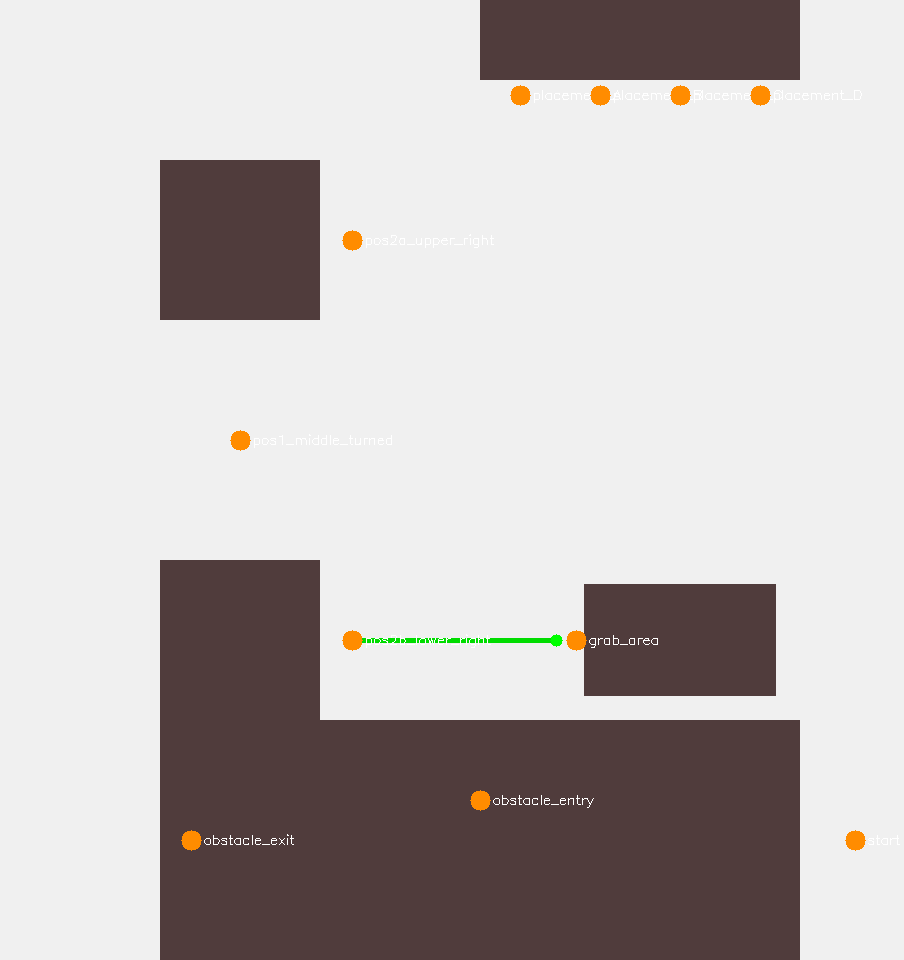
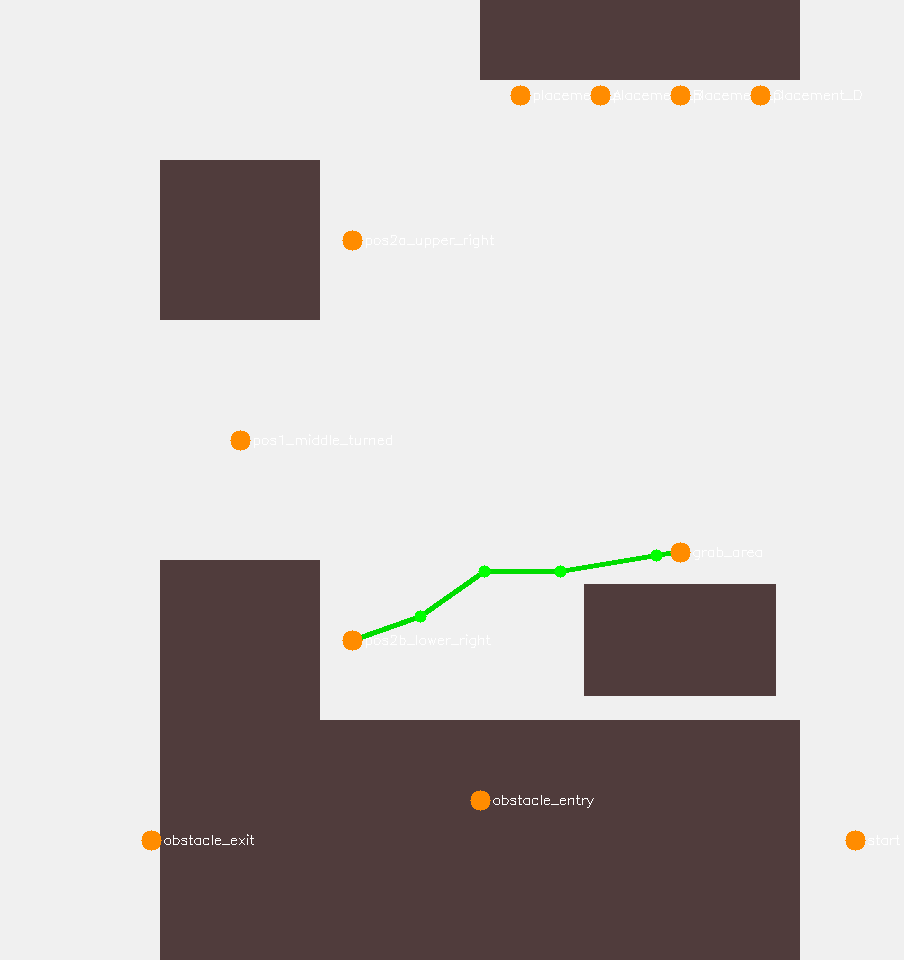
fix: obstacle_exit outside obstacle zone (left edge), grab_area above grab region

diff --git a/src/navigation/navigator.py b/src/navigation/navigator.py
@@ -54,13 +54,13 @@ _RAW_WAYPOINTS: Dict[str, Dict[str, Any]] = {
     "pos1_middle_turned":   {"x_mm": 1500, "y_mm": 2750, "yaw_deg":  90, "label": "观察位① 转身看下柜顶面"},
     "pos2a_upper_right":    {"x_mm": 2200, "y_mm": 1500, "yaw_deg": 180, "label": "观察位②a 上柜右面"},
     "pos2b_lower_right":    {"x_mm": 2200, "y_mm": 4000, "yaw_deg": 180, "label": "观察位②b 下柜右面"},
-    "grab_area":            {"x_mm": 3600, "y_mm": 4000, "yaw_deg": 180, "label": "抓取区(外沿)"},
+    "grab_area":            {"x_mm": 4250, "y_mm": 3450, "yaw_deg": -90, "label": "抓取区(上方)"},
     "placement_A":          {"x_mm": 3250, "y_mm": 600,  "yaw_deg": 0,   "label": "A放置区"},
     "placement_B":          {"x_mm": 3750, "y_mm": 600,  "yaw_deg": 0,   "label": "B放置区"},
     "placement_C":          {"x_mm": 4250, "y_mm": 600,  "yaw_deg": 0,   "label": "C放置区"},
     "placement_D":          {"x_mm": 4750, "y_mm": 600,  "yaw_deg": 0,   "label": "D放置区"},
     "obstacle_entry":       {"x_mm": 3000, "y_mm": 5000, "yaw_deg": 180, "label": "障碍区入口(右侧)"},
-    "obstacle_exit":        {"x_mm": 1200, "y_mm": 5250, "yaw_deg": 180, "label": "障碍区出口(左侧)"},
+    "obstacle_exit":        {"x_mm": 950, "y_mm": 5250, "yaw_deg": 180, "label": "障碍区出口(左侧外)"},
 }
 
 # Convert waypoints to ROS coordinates

diff --git a/navi/map/visualize_astar.py b/navi/map/visualize_astar.py
@@ -18,12 +18,12 @@ import numpy as np
 _WAYPOINTS_MM = {
     "start":              (5350, 5250),
     "obstacle_entry":     (3000, 5000),
-    "obstacle_exit":      (1200, 5250),
+    "obstacle_exit":      (950, 5250),
     "pos1_middle":        (1500, 2750),
     "pos1_middle_turned": (1500, 2750),
     "pos2a_upper_right":  (2200, 1500),
     "pos2b_lower_right":  (2200, 4000),
-    "grab_area":          (3600, 4000),
+    "grab_area":          (4250, 3450),
     "placement_A":        (3250, 600),
     "placement_B":        (3750, 600),
     "placement_C":        (4250, 600),
